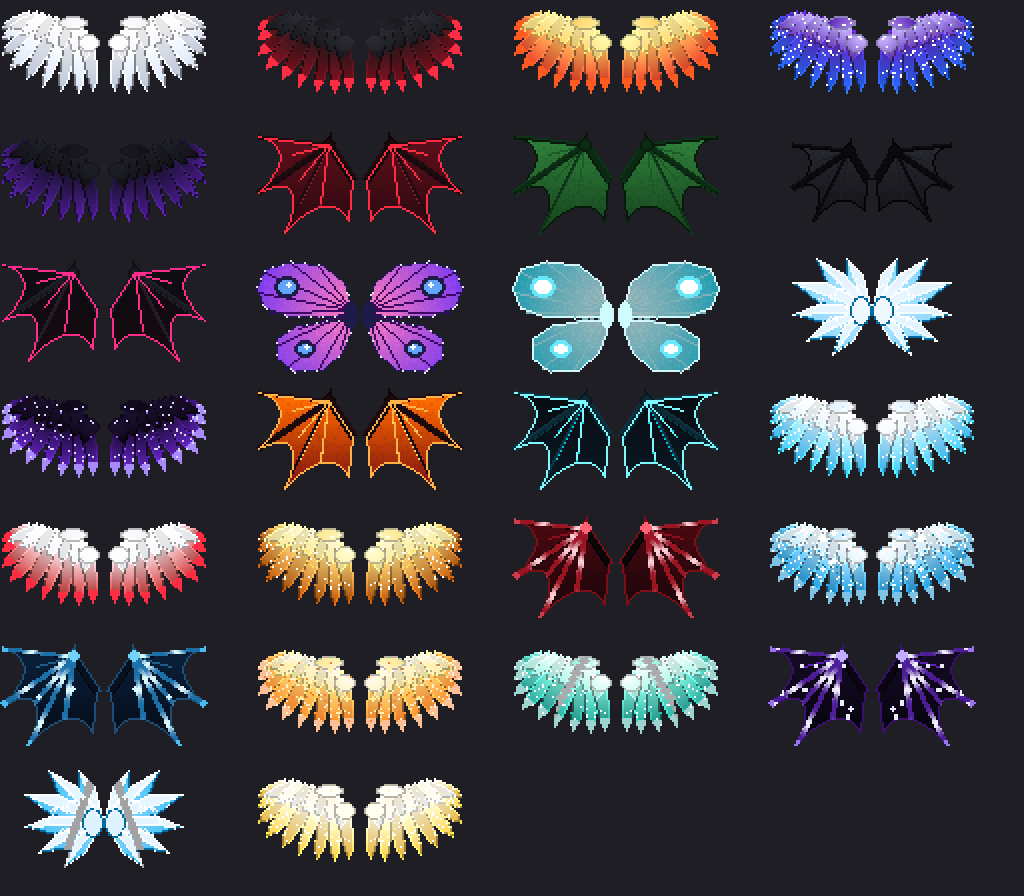
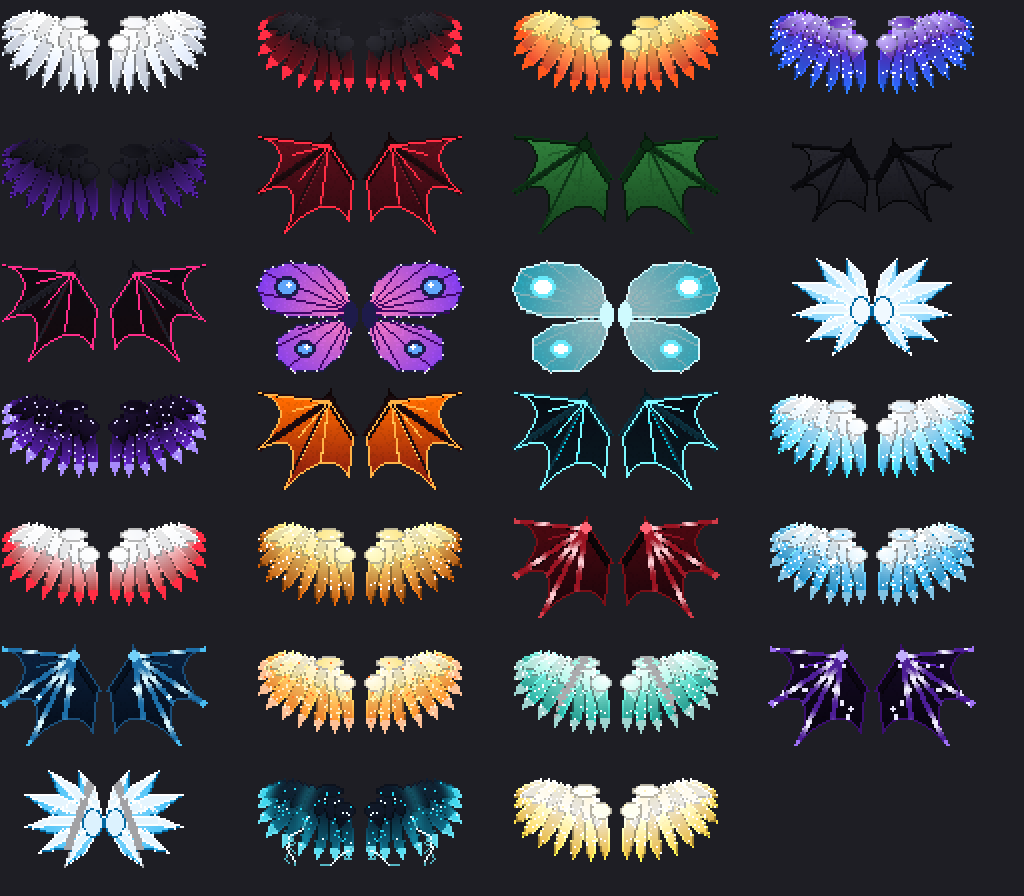
Wings: Voltage – legendäre Blitzschwingen (nachtschwarze Federn mit elektrisch-blauem Glühen, zuckende Blitze, 8 Frames), nur per Code; Worker-Exklusivliste erweitert

Changed region(s): [[0.5, 0.8438, 0.7188, 0.9688], [0.25, 0.8438, 0.4688, 0.9688]]

diff --git a/chaos-cosmetics-api/worker/src/index.js b/chaos-cosmetics-api/worker/src/index.js
@@ -131,7 +131,7 @@ const getCape = (env, id) => getJson(env, "cape:" + id);
 function capeUrl(origin, id) { return `${origin}/v1/capes/${id}/texture`; }
 function remoteCape(origin, c) { return c ? { id: c.id, name: c.name, url: capeUrl(origin, c.id), sha1: c.sha1, version: c.version || 1, kind: c.kind || "custom", fps: c.fps || 8 } : null; }
 /* ---------- Exklusive Wings (nur mit Code) ---------- */
-const EXCLUSIVE_WINGS = new Set(["overlord", "celestial", "tempest", "rebirth", "aurora", "void-reaper", "frostbite"]);
+const EXCLUSIVE_WINGS = new Set(["overlord", "celestial", "tempest", "rebirth", "aurora", "void-reaper", "frostbite", "voltage"]);
 /* Weitere exklusive Items: Freischaltungs-Schlüssel "<art>:<id>" (Wings aus Kompatibilität ohne Präfix). */
 const EXCLUSIVE = {
   wings: EXCLUSIVE_WINGS,

diff --git a/scripts/gen_wings.py b/scripts/gen_wings.py
@@ -457,6 +457,60 @@ def draw_void_reaper(L, k, n):
         L.paint(intersect(ellipse(x, y, 0.7, 0.7), L.mask()), lambda x_, y_: rgba("#EDE9FE"))
 
 
+def draw_voltage(L, k, n):
+    """Voltage: nachtschwarze Federn, in denen elektrisch-blaue Energie glüht (Welle läuft zu den Spitzen);
+    Blitze springen über die Schwinge und zucken darüber hinaus, Funken an den Spitzen."""
+    t = k / n
+    mid_c, bright, white = rgba("#0E7490"), rgba("#22D3EE"), rgba("#F0FDFF")
+    draw_feathered(L, rgba("#0B1120"), rgba("#0E7490"), rgba("#111827"), outline_f=0.4, tip_glow=mix(bright, white, 0.35), seed=k * 3)
+    # Innenleuchten: nur Pixel, die rundum von Feder umgeben sind (Kontur bleibt dunkel wie im Vorbild)
+    shape = L.mask()
+    m = shape.load()
+    core = Image.new("L", (IW, IH), 0)
+    cp = core.load()
+    for y in range(1, IH - 1):
+        for x in range(1, IW - 1):
+            if m[x, y] and m[x - 1, y] and m[x + 1, y] and m[x, y - 1] and m[x, y + 1]:
+                cp[x, y] = 255
+    R = (3, 24)
+    px = L.img.load()
+
+    def col(x, y):
+        d = math.hypot(x - R[0], y - R[1]) / 50.0
+        wave = (0.5 + 0.5 * math.sin((d * 2.5 - t * 2.0) * math.tau)) ** 2
+        glow = min(1.0, max(0.0, d * 1.4 - 0.2)) * (0.25 + 0.75 * wave)
+        return mix(px[x, y], mix(mid_c, bright, wave), glow * 0.6)
+
+    L.paint(core, col)
+    # Blitze: gezackte Linien ab dem Flügelarm, auch über die Silhouette hinaus (dort auf transparentem Grund)
+    rnd = random.Random(4100 + k)
+    on_wing = [(x, y) for y in range(IH) for x in range(IW) if m[x, y]]
+    for _ in range(3):
+        x, y = rnd.choice(on_wing)
+        ang = rnd.uniform(-10, 100)
+        pts = [(x, y)]
+        for _s in range(rnd.randint(3, 5)):
+            ang += rnd.uniform(-55, 55)
+            ln = rnd.uniform(2.5, 5.5)
+            x, y = x + math.cos(math.radians(ang)) * ln, y + math.sin(math.radians(ang)) * ln
+            pts.append((x, y))
+        if rnd.random() < 0.7:  # Abzweig
+            i = rnd.randint(1, len(pts) - 2)
+            bx, by = pts[i]
+            ba = ang + rnd.uniform(-110, 110)
+            branch = [(bx, by), (bx + math.cos(math.radians(ba)) * 3, by + math.sin(math.radians(ba)) * 3), (bx + math.cos(math.radians(ba + 40)) * 5, by + math.sin(math.radians(ba + 40)) * 5)]
+        else:
+            branch = []
+        for seg in (pts, branch):
+            for p0, p1 in zip(seg, seg[1:]):
+                L.paint(line(p0, p1, 1), lambda x_, y_: rgba("#67E8F9", 190))
+        for p0, p1 in list(zip(pts, pts[1:]))[1:-1]:
+            L.paint(line(p0, p1, 1), lambda x_, y_: white)
+    # Funken an den Spitzen und im Leuchten
+    L.dots(core, white, every=60, seed=41 + k)
+    L.dots(core, bright, every=34, seed=43 + k)
+
+
 def draw_frostbite(L, k, n):
     """Frostbite: Eiskristalle, über die ein kalter Schimmer läuft, mit tanzenden Eisfunken."""
     t = k / n
@@ -544,6 +598,8 @@ DESIGNS = [
        draw_void_reaper, ["#140A24", "#7C3AED", "#F5F3FF"], flapSpeed=0.06, flapAmp=24, openAngle=40, tilt=6, scale=1.2, glow=True, particle="void-reaper", frames=8, fps=10, exclusive=True),
     W_("frostbite", "Frostbite", "LEGENDÄR · Eiskristalle mit wanderndem Kälteschimmer und tanzenden Eisfunken – nur mit Code.", "🧊",
        draw_frostbite, ["#E0F2FE", "#38BDF8", "#FFFFFF"], flapSpeed=0.055, flapAmp=12, openAngle=40, tilt=12, scale=1.15, glow=True, particle="frostbite", frames=8, fps=8, exclusive=True),
+    W_("voltage", "Voltage", "LEGENDÄR · Nachtschwarze Federn, in denen elektrisch-blaue Energie glüht – Blitze zucken über und um die Schwingen – nur mit Code.", "🌩",
+       draw_voltage, ["#0B1120", "#22D3EE", "#F0FDFF"], flapSpeed=0.075, flapAmp=22, openAngle=42, tilt=8, scale=1.2, glow=True, particle="voltage", frames=8, fps=12, exclusive=True),
     W_("seraph", "Seraphim", "Drei Lagen leuchtend weißer Federn mit goldenem Saum – überirdisch.", "👼",
        lambda L: draw_feathered(L, rgba("#FFFFFF"), rgba("#F5C342"), rgba("#FFF8E1"), outline_f=0.68, stars=((255, 255, 255, 255), 18, (255, 241, 184, 255))),
        ["#FFFFFF", "#F5C342", "#FFF8E1"], flapSpeed=0.06, flapAmp=14, openAngle=44, tilt=14, scale=1.12, glow=True, particle="glow"),
